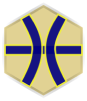
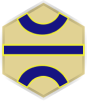
Extended TileType with a toImg function and renamed the tiles according to the TileTypes

diff --git a/src/main/kotlin/entity/TileType.kt b/src/main/kotlin/entity/TileType.kt
@@ -1,10 +1,32 @@
 package entity
 
+import tools.aqua.bgw.visual.ImageVisual
+
+/**
+ * enum class for the different TileTypes
+ *
+ * @constructor Create empty Tile type
+ */
 enum class TileType {
     Type_0,
     Type_1,
     Type_2,
     Type_3,
     Type_4,
-    Type_5 //TreasureTile
+    Type_5 //TreasureTiles
+    ;
+
+    /**
+     * function to provide an image to represent this TileType.
+     * returns the matching image
+     */
+    fun toImg() =
+        when(this) {
+            TileType.Type_0 -> ImageVisual("/tile0.png")
+            TileType.Type_1 -> ImageVisual("/tile1.png")
+            TileType.Type_2 -> ImageVisual("/tile2.png")
+            TileType.Type_3 -> ImageVisual("/tile3.png")
+            TileType.Type_4 -> ImageVisual("/tile4.png")
+            TileType.Type_5 -> ImageVisual("/gatetile1.png") //stimmt fuer nur ein gate da aufgeteilt in 6 Bilder
+        }
 }
